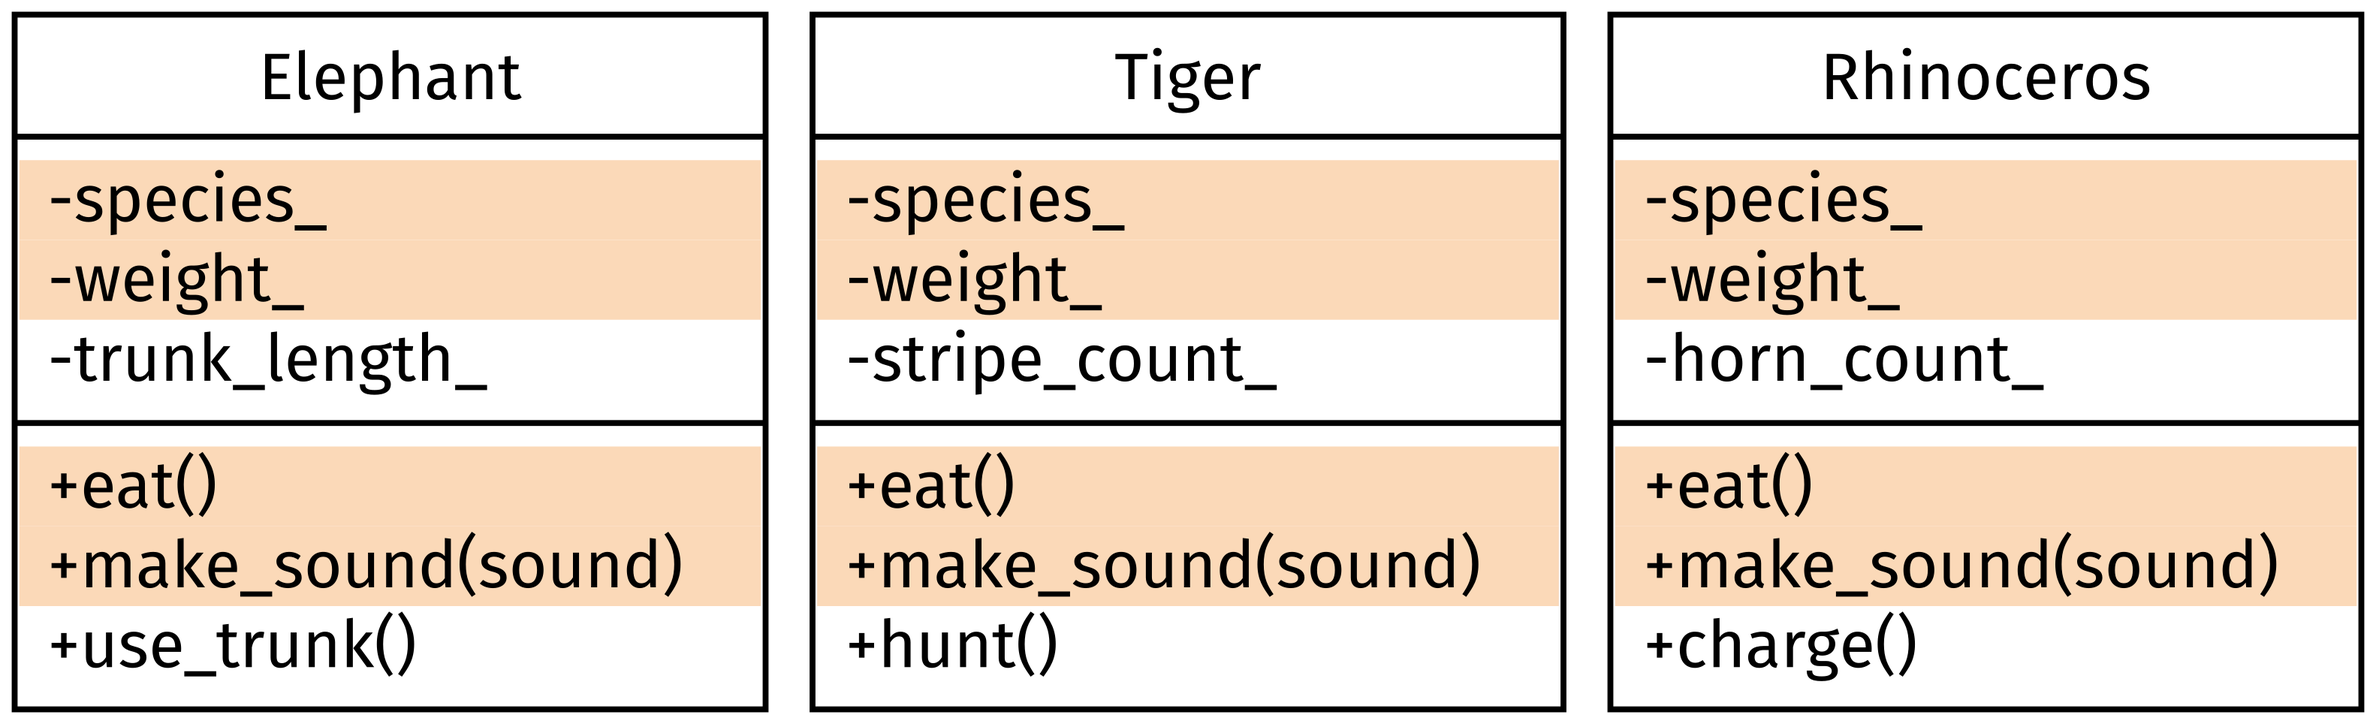
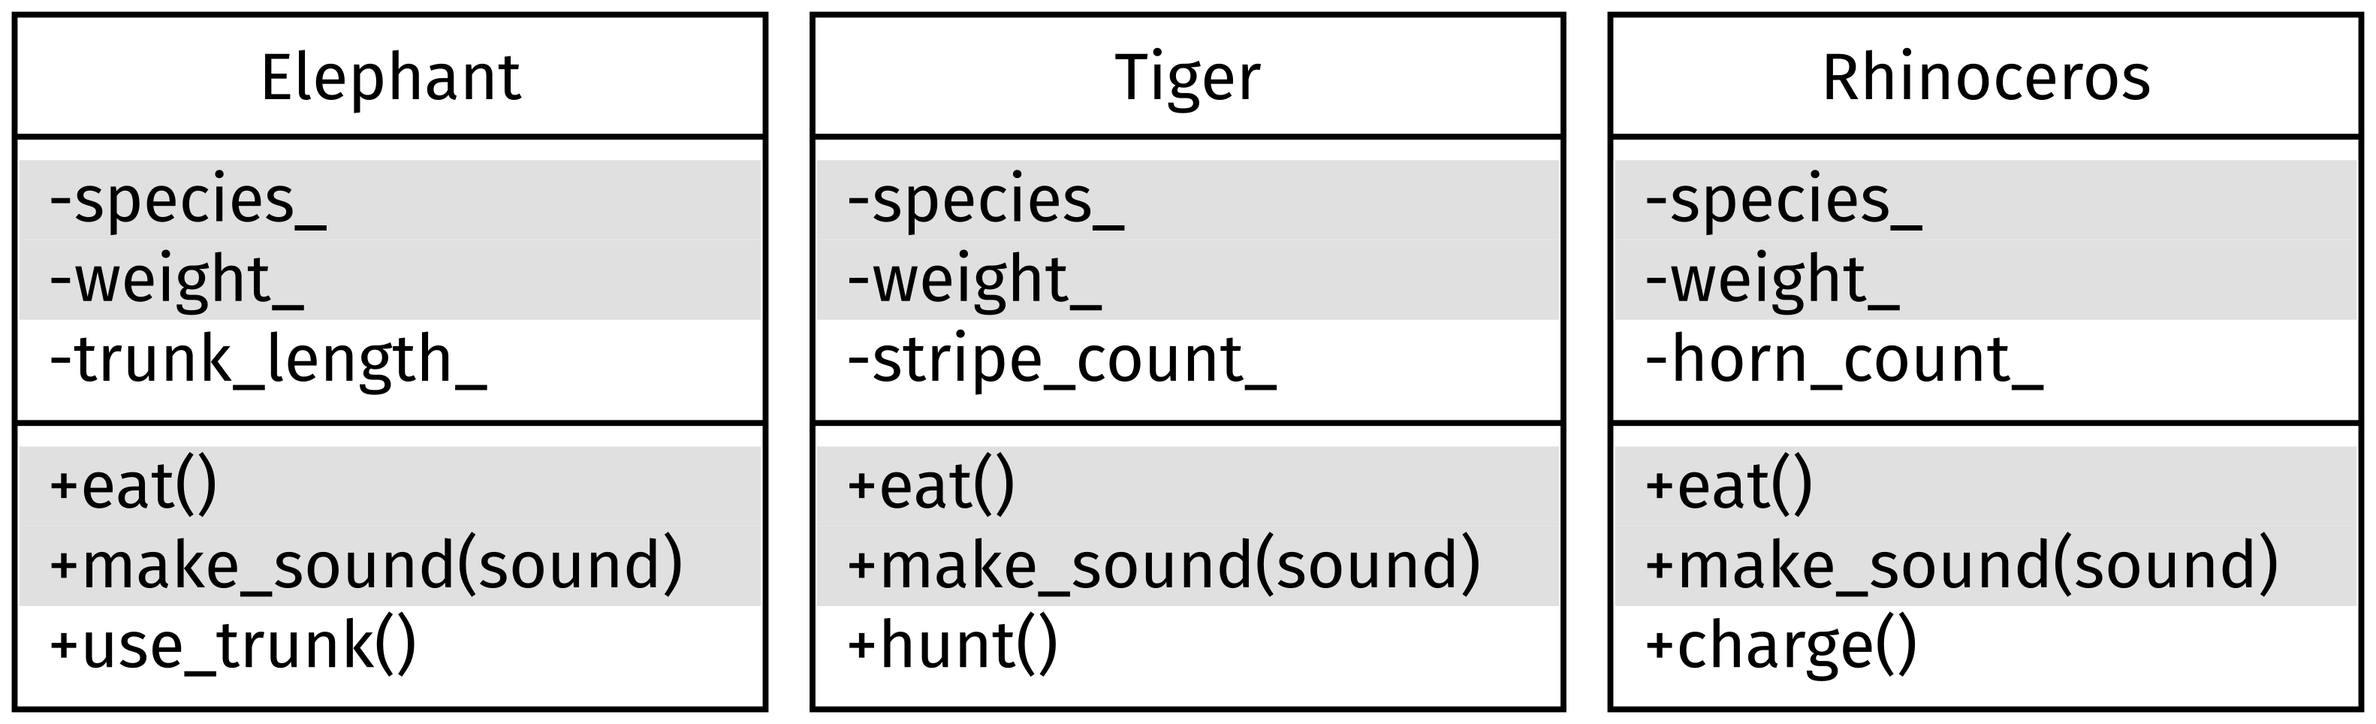
L9: Live Coding Steps 4 to 6 in class, static and dynamic type, appendix numbers
Steps 4, 5 and 6 are done in class; after Step 6 students zip the live
folder and upload live.zip. Static type and dynamic type are two
definitions, in the compile-time and runtime parts. A RoboTaxi in Memory
says why the private base members are still in the object.

The week9_appendix commands follow the new appendix numbers; on the
requirements page they are set by title, since four were already wrong.
Figures: gray repeated members in generalization_before, inheritance_only
in one row.

diff --git a/docs/source/lectures/lecture9/l9_lecture.rst b/docs/source/lectures/lecture9/l9_lecture.rst
@@ -19,10 +19,10 @@ The `Further Reading`_ part, at the end of this page, is the appendix of the sli
 Upload Your Live Coding
 ^^^^^^^^^^^^^^^^^^^^^^^
 
-Steps 1 to 3 are given in ``project/week9/live``: we review them together. You write **Step 4** on your own, in 10 minutes. Steps 5 and 6 are homework, not collected. In class, I walk around and help, but I do not show the answers: the recording would give them away. Get your workspace ready before class: follow :doc:`Setup Before Class </lectures/lecture8/l8_setup>` and run the script with the week number, ``bash ~/Downloads/enpm702_setup.sh 9``.
+Steps 1 to 3 are given in ``project/week9/live``: we review them together. You write **Steps 4, 5 and 6** in class, on your own: 10 minutes for Step 4, 5 minutes each for Steps 5 and 6. In class, I walk around and help, but I do not show the answers: the recording would give them away. Get your workspace ready before class: follow :doc:`Setup Before Class </lectures/lecture8/l8_setup>` and run the script with the week number, ``bash ~/Downloads/enpm702_setup.sh 9``.
 
-- **Before the end of class**, upload every file of ``live/include`` and ``live/src`` to the L9 Live Coding assignment on Canvas.
-- It counts as the **L9 exercise** (exercises are 5% of the grade, 2.5 points each), as complete or incomplete. Complete means the code builds and you wrote Step 4. I do not grade it for correctness.
+- **Before the end of class**, after Step 6, zip the ``live`` folder: in ``project/week9``, run ``zip -r live.zip live`` (if ``zip`` is missing: ``sudo apt install zip``). Upload ``live.zip`` to the L9 Live Coding assignment on Canvas.
+- It counts as the **L9 exercise** (exercises are 5% of the grade, 2.5 points each), as complete or incomplete. Complete means the code builds and you wrote Steps 4, 5 and 6. I do not grade it for correctness.
 - **No AI**: write the code yourself, with neither a chatbot nor the AI in VS Code (GitHub Copilot included), in class or after. Code written with AI gets **0**.
 - **Watching the recording?** Upload before the next lecture, on **Nov 10**. The same rules apply.
 - The finished code is posted after Nov 10, the deadline for those who watch the recording.
@@ -1046,13 +1046,13 @@ Generalization: Three Classes Repeat Members
 **Generalization**: starting from classes you already have, and moving what they share up into a new base class: bottom-up.
 
 .. figure:: /_static/images/l9/generalization_before.png
-   :alt: Three class boxes side by side, with no line between them: Elephant, Tiger and Rhinoceros. Each lists minus species_, minus weight_ and one member of its own (minus trunk_length_, minus stripe_count_, minus horn_count_), then plus eat(), plus make_sound(sound) and one method of its own (plus use_trunk(), plus hunt(), plus charge()). In each box, the four members the three share are shaded orange.
+   :alt: Three class boxes side by side, with no line between them: Elephant, Tiger and Rhinoceros. Each lists minus species_, minus weight_ and one member of its own (minus trunk_length_, minus stripe_count_, minus horn_count_), then plus eat(), plus make_sound(sound) and one method of its own (plus use_trunk(), plus hunt(), plus charge()). In each box, the four members the three share are shaded light gray.
    :align: center
    :width: 90%
 
    Three classes that each write the same members.
 
-- Orange: the members ``Elephant``, ``Tiger`` and ``Rhinoceros`` each wrote, the same in all three.
+- Gray: the members ``Elephant``, ``Tiger`` and ``Rhinoceros`` each wrote, the same in all three.
 
 Generalization: The Shared Members Move Up
 """"""""""""""""""""""""""""""""""""""""""
@@ -1161,9 +1161,9 @@ RoboTaxi and Taxi Are Vehicles
 ----
 
 .. image:: /_static/images/l9/model_l9_inheritance_only.png
-   :alt: A UML class diagram with only three boxes, Vehicle on the left, RoboTaxi and Taxi on the right, all light orange with dark orange lines, each with a circled C, for a class. RoboTaxi and Taxi each join Vehicle by an orange line with a hollow triangle at Vehicle.
+   :alt: A UML class diagram with only three boxes in one row, RoboTaxi on the left, Vehicle in the middle and Taxi on the right, all light orange with dark orange lines, each with a circled C, for a class. RoboTaxi and Taxi each join Vehicle by an orange line with a hollow triangle at Vehicle.
    :align: center
-   :width: 40%
+   :width: 70%
 
 The answer on the path, and the requirement behind it:
 
@@ -1204,7 +1204,7 @@ A RoboTaxi in Memory
 
 - A derived object contains every data member of its base class: ``car_a`` holds the six of ``Vehicle``, then the two that ``RoboTaxi`` adds.
 - Sizes, measured with g++ 13.3: the ``Vehicle`` part is 88 bytes, ``operating_zone_`` (a ``std::string``) 32 and ``automation_level_`` (an ``AutomationLevel``, an ``int`` underneath) 4. Then 4 bytes of padding make the size a multiple of 8: 88 + 32 + 4 + 4 = 128.
-- Whether ``RoboTaxi``'s methods can use a member by name depends on its access specifier in ``Vehicle``. ``-`` marks ``private``, as in the class diagram: the member is there, but reachable only through ``Vehicle``'s ``public`` or ``protected`` methods (`private Stays private`_).
+- Whether ``RoboTaxi``'s methods can use a member by name depends on its access specifier in ``Vehicle``. ``-`` marks ``private``, as in the class diagram: the member is there, but ``RoboTaxi``'s methods cannot name it. It is still needed: ``Vehicle``'s methods, such as ``set_speed``, use it for each ``RoboTaxi``, and ``RoboTaxi``'s methods reach it through ``Vehicle``'s ``public`` or ``protected`` methods (`private Stays private`_).
 - ``next_id_`` is ``static``: one counter for the class, in no object.
 - This code prints each member through ``Vehicle``'s ``public`` methods, then the two sizes: ``88 128``.
 
@@ -1760,7 +1760,7 @@ The Challenge: A Base Reference
    Vehicle: drives 500 m
    Vehicle: drives 500 m
 
-The **static type** of an expression is the type written in the code: ``vehicle`` is a ``const Vehicle&``. The **dynamic type** is the class of the object it refers to while the program runs: ``RoboTaxi``, then ``Taxi``.
+The **static type** of an expression is the type written in the code: ``vehicle`` is a ``const Vehicle&``.
 
 - The compiler sees only the static type, so it calls ``Vehicle::drive`` for both. Each object's own ``drive`` is lost.
 
@@ -1792,6 +1792,8 @@ See `One Overload per Class`_ and `Scalability and Redundancy`_ under Further Re
 
 Runtime Polymorphism
 ^^^^^^^^^^^^^^^^^^^^
+
+The **dynamic type** of an expression is the class of the object it refers to while the program runs. In ``start_shift`` (`The Challenge: A Base Reference`_), ``vehicle`` has static type ``const Vehicle&``, and dynamic type ``RoboTaxi``, then ``Taxi``.
 
 **Runtime polymorphism**: the method a call runs is picked while the program runs, from the class of the object. A call through a base reference or pointer then runs the derived class's own method. Also called **dynamic polymorphism** (Stroustrup, *C++ Glossary*); picking the method at run time is **dynamic binding** (*C++ FAQ: Inheritance, virtual functions*).
 
@@ -1909,8 +1911,6 @@ Live Coding: Step 4
 
 **10 minutes, in class, on your own.** The instructions are on the slides: make ``drive`` ``virtual``, so one loop drives a ``RoboTaxi`` and a ``Taxi``, each with its own ``drive``, and give ``Vehicle`` a ``virtual`` destructor. Why a ``virtual`` destructor: :doc:`virtual Methods in Depth <l9_virtual>`.
 
-Step 4 is the last step of the exercise: upload your Live Coding files on Canvas (`Upload Your Live Coding`_).
-
 See `auto or a Base Pointer`_ under Further Reading.
 
 Abstraction
@@ -1958,7 +1958,7 @@ An Abstract Class in the Class Diagram
 Live Coding: Step 5
 """""""""""""""""""
 
-**Homework, not collected.** The instructions are on the slides.
+**5 minutes, in class, on your own.** The instructions are on the slides.
 
 See `Step 5: No Vehicle Objects`_ and `Step 5: RoboTaxi and Taxi`_ under Further Reading.
 
@@ -2125,7 +2125,7 @@ See `Discussion: A Keyword for Each Method`_ under Further Reading.
 Live Coding: Step 6
 ^^^^^^^^^^^^^^^^^^^
 
-**Homework, not collected.** The instructions are on the slides.
+**5 minutes, in class, on your own.** The instructions are on the slides. Then zip the ``live`` folder and upload ``live.zip`` on Canvas (`Upload Your Live Coding`_).
 
 See `Step 6: A final Class`_ under Further Reading.
 
@@ -2434,7 +2434,7 @@ protected and private Inheritance, the Code
 - With ``private``, ``NightShuttle`` cannot call ``check()``, and outside code cannot see the base.
 - With ``protected`` instead, ``start_late()`` compiles and prints ``go``; outside code still cannot see the base (g++ 13.3: ``'PreTripCheck' is an inaccessible base of 'NightShuttle'``).
 - The destructor of ``PreTripCheck`` is ``protected`` and non-virtual, one of the two choices of `Core Guidelines C.35 <https://isocpp.github.io/CppCoreGuidelines/CppCoreGuidelines#rc-dtor-virtual>`__. Outside code cannot delete a ``Shuttle`` through a ``PreTripCheck*``.
-- Run: ``702run week9_appendix xi`` (after Nov 10).
+- Run: ``702run week9_appendix xii`` (after Nov 10).
 
 Back to `When protected and private Inheritance Make Sense`_.
 
@@ -2504,7 +2504,7 @@ Two Pointers, Two Static Types
 
 - A ``std::unique_ptr<Vehicle>`` can own any kind of vehicle, one after the other. A ``std::unique_ptr<RoboTaxi>`` owns robotaxis only.
 - The compiler checks every name against the static type. With the design's ``RoboTaxi``, ``robotaxi->get_operating_zone()`` compiles and ``vehicle->get_operating_zone()`` does not.
-- Run: ``702run week9_appendix xiv``.
+- Run: ``702run week9_appendix xv``.
 
 Back to `Live Coding: Step 4`_.
 
@@ -2528,7 +2528,7 @@ From auto into a Vector of Vehicles
 
 - A ``std::unique_ptr<RoboTaxi>`` that is moved converts to a ``std::unique_ptr<Vehicle>``: ``push_back``, ``emplace_back`` and the parameter of ``hand_over`` all accept it.
 - Each ``std::unique_ptr`` is the only owner of its vehicle. ``Fleet`` shares its vehicles, so it holds ``std::shared_ptr<Vehicle>`` instead.
-- Run: ``702run week9_appendix xv``.
+- Run: ``702run week9_appendix xvi``.
 
 Back to `Live Coding: Step 4`_.
 
@@ -2658,7 +2658,7 @@ Each Route Has Its Own Positions
 
 - Positions in m, chosen for this example: from the pickup (0, 0) to Maya's stop (300, 400) is 500 m, the long side of a 300, 400, 500 right triangle. Ana's stop is 400 m straight down, at (300, 0): 500 + 400 = 900.
 - The copy has its own ``Position`` values: adding Ana's stop to ``shared_ride`` leaves ``maya_ride`` at 500 m. A part belongs to one whole.
-- Run: ``702run week9_appendix xxi``.
+- Run: ``702run week9_appendix xxiii``.
 
 Back to `Exclusive Ownership Needs std::unique_ptr`_.
 
@@ -2743,7 +2743,7 @@ Here ``Vehicle`` is the concrete class you already have; the Abstraction section
 - This ``drive`` prints the length and the time, length / speed: 500 / 10 = 50 s, 200 / 10 = 20 s. The speed, 10 m/s, is chosen for this example.
 - ``maya_ride`` is destroyed; the ``Vehicle`` kept nothing of it.
 - A dependency needs no smart pointer: a reference parameter. Core Guidelines `F.7 <https://isocpp.github.io/CppCoreGuidelines/CppCoreGuidelines#rf-smart>`__: "For general use, take ``T*`` or ``T&`` arguments rather than smart pointers".
-- Run: ``702run week9_appendix xxiv``.
+- Run: ``702run week9_appendix xxvi``.
 
 Back to `A Vehicle Uses a Route`_.
 
@@ -2768,7 +2768,7 @@ The **base subobject**: the whole ``Vehicle`` at the start of every ``Taxi`` obj
 
 - A ``Taxi`` object starts with its base subobject: 88 bytes with g++. Then its own member, a ``std::string``, 32 bytes on the second line: 88 + 32 = 120.
 - ``RoboTaxi`` adds a ``std::string`` (32 bytes) and an ``int`` (4 bytes), then 4 bytes of padding: 88 + 32 + 4 + 4 = 128.
-- Run: ``702run week9_appendix xxv``.
+- Run: ``702run week9_appendix xxvii``.
 
 Back to `A Base Class Reference to a Derived Object`_.
 
@@ -2808,7 +2808,7 @@ One Overload per Class
    Taxi: Ana drives 500 m
 
 - ``start_shift(robotaxi, maya_ride)`` and ``start_shift(taxi, maya_ride)`` each pick their overload, and each vehicle drives its own way.
-- Run: ``702run week9_appendix xxvii``.
+- Run: ``702run week9_appendix xxx``.
 
 Back to `Overloads Cannot Meet the Challenge`_.
 
@@ -2895,7 +2895,7 @@ Discussion: What Prints First?
    - The base first, then the members in the order they are declared, then the body. Destruction is the reverse.
    - ``meter_`` has no initializer in the list, and it is still built before the body: every member is built before the body runs, whether the list names it or not.
    - Swapping the two initializers changes nothing in the output. g++ warns ``'Taxi::driver_name_' will be initialized after [-Wreorder]``, then ``base 'Vehicle'``. The order comes from the class, not from the list, as for members.
-   - Run: ``702run week9_appendix xxx``.
+   - Run: ``702run week9_appendix xxxiii``.
 
 Back to `Construction and Destruction Order`_.
 
@@ -2941,7 +2941,7 @@ The company adds a robot bus with 30 seats and a maximum speed of 11.2 m/s, abou
    :class-container: sd-border-success
 
    1. ``class RoboBus : public Vehicle``, with a constructor that passes the maximum speed to ``Vehicle`` and sets ``seats_``, and ``drive(const Route&) const override``. The seats need a rule, more than 0, so the constructor checks it.
-   2. None. NFR-1: adding a vehicle kind changes no line of ``Fleet`` or ``Passenger``. ``Fleet`` stores ``std::shared_ptr<Vehicle>``. ``702run week9_appendix xxxii`` adds a ``RoboBus`` to a ``Fleet`` and prints ``RoboBus: 30 seats, drives 500 m``.
+   2. None. NFR-1: adding a vehicle kind changes no line of ``Fleet`` or ``Passenger``. ``Fleet`` stores ``std::shared_ptr<Vehicle>``. ``702run week9_appendix xxxv`` adds a ``RoboBus`` to a ``Fleet`` and prints ``RoboBus: 30 seats, drives 500 m``.
    3. ``RoboBus`` is abstract, and creating one stops the build, as in `Forgetting One Override`_.
    4. Only if a robot bus is a robotaxi. It is a bus, so it derives from ``Vehicle``. Rule: `Core Guidelines C.120 <https://isocpp.github.io/CppCoreGuidelines/CppCoreGuidelines#rh-domain>`__, "Use class hierarchies to represent concepts with inherent hierarchical structure (only)". The design marks ``RoboTaxi`` ``final``, as `The final Keyword`_ shows.
 
@@ -2997,7 +2997,7 @@ std::find on a Vector
 
 - ``std::find`` is in ``<algorithm>``. It returns an iterator to the first element equal to the value, or ``end()`` when there is none.
 - In ``Fleet``, the elements are ``std::shared_ptr<Vehicle>``, so ``std::find`` compares the pointers.
-- Run: ``702run week9_appendix xxxiv``.
+- Run: ``702run week9_appendix xxxvii``.
 
 std::erase_if on a Vector
 ^^^^^^^^^^^^^^^^^^^^^^^^^
@@ -3021,7 +3021,7 @@ std::erase_if on a Vector
 
 - The ``std::erase_if`` for a vector is in ``<vector>`` (C++20). The lambda gets each element and returns ``true`` for the ones to erase.
 - In ``Fleet``, the lambda takes ``const std::shared_ptr<Vehicle>& vehicle`` and returns ``vehicle->get_id() == id``.
-- Run: ``702run week9_appendix xxxv``.
+- Run: ``702run week9_appendix xxxviii``.
 
 Owners Keep Objects Alive
 ^^^^^^^^^^^^^^^^^^^^^^^^^

diff --git a/docs/source/lectures/lecture9/l9_index.rst b/docs/source/lectures/lecture9/l9_index.rst
@@ -7,7 +7,7 @@ L9: OOP Advanced
 Overview
 --------
 
-This lecture covers advanced object-oriented programming in C++, on the ride service program. A warm-up asks you to improve a ``Vehicle`` class with what you already know. The lecture then opens with the UML class diagram of the whole program and comes back to it, with the part being built in orange, before each new piece. A **design** comes first: requirements say what the program must do, their nouns and verbs give the classes and methods, and a **UML class diagram** draws them. Every class of the program is in the namespace ``fleet``. The lecture then names each line of the diagram: a ``Passenger`` rides a ``Vehicle`` (association, ``std::weak_ptr``), a ``Fleet`` holds vehicles it shares (aggregation, ``std::shared_ptr``), a ``Vehicle`` owns its ``Sensor``\ s and a ``Route`` its ``Position``\ s (composition), a ``Vehicle`` uses a ``Route`` for one call (dependency), and a ``RoboTaxi`` and a ``Taxi`` are vehicles (inheritance, with slicing, ``protected``, base class initializers and construction order). **Polymorphism** follows: compile-time (redefinition, static types, and why overloads cannot meet the challenge) and runtime in three steps (``public`` inheritance, ``virtual`` and ``override``, a base reference or pointer). The vtable and ``virtual`` destructors are on the reading page :doc:`virtual Methods in Depth <l9_virtual>`. The lecture ends with **abstraction**, an abstract ``Vehicle`` with a pure ``virtual`` ``drive``, concrete classes that override it, and ``final``. In six Live Coding steps, ``Passenger``, ``Fleet``, ``RoboTaxi`` and ``Taxi`` join the ``Vehicle`` you already wrote: Steps 1 to 3 are given and reviewed in class, you write Step 4 on your own, and Steps 5 and 6 are homework, not collected. The other discussions, with their answers, are in the Further Reading part of the lecture page.
+This lecture covers advanced object-oriented programming in C++, on the ride service program. A warm-up asks you to improve a ``Vehicle`` class with what you already know. The lecture then opens with the UML class diagram of the whole program and comes back to it, with the part being built in orange, before each new piece. A **design** comes first: requirements say what the program must do, their nouns and verbs give the classes and methods, and a **UML class diagram** draws them. Every class of the program is in the namespace ``fleet``. The lecture then names each line of the diagram: a ``Passenger`` rides a ``Vehicle`` (association, ``std::weak_ptr``), a ``Fleet`` holds vehicles it shares (aggregation, ``std::shared_ptr``), a ``Vehicle`` owns its ``Sensor``\ s and a ``Route`` its ``Position``\ s (composition), a ``Vehicle`` uses a ``Route`` for one call (dependency), and a ``RoboTaxi`` and a ``Taxi`` are vehicles (inheritance, with slicing, ``protected``, base class initializers and construction order). **Polymorphism** follows: compile-time (redefinition, static types, and why overloads cannot meet the challenge) and runtime in three steps (``public`` inheritance, ``virtual`` and ``override``, a base reference or pointer). The vtable and ``virtual`` destructors are on the reading page :doc:`virtual Methods in Depth <l9_virtual>`. The lecture ends with **abstraction**, an abstract ``Vehicle`` with a pure ``virtual`` ``drive``, concrete classes that override it, and ``final``. In six Live Coding steps, ``Passenger``, ``Fleet``, ``RoboTaxi`` and ``Taxi`` join the ``Vehicle`` you already wrote: Steps 1 to 3 are given and reviewed in class, you write Steps 4, 5 and 6 in class, on your own. The other discussions, with their answers, are in the Further Reading part of the lecture page.
 
 .. admonition:: Learning Objectives
    :class: learning-objectives
@@ -38,7 +38,7 @@ This lecture covers advanced object-oriented programming in C++, on the ride ser
 Before Class
 ------------
 
-Follow :doc:`Setup Before Class </lectures/lecture8/l8_setup>`, and run the script with the week number: ``bash ~/Downloads/enpm702_setup.sh 9``. In class we review Steps 1 to 3, given in ``project/week9/live``, and you write Step 4 on your own; Steps 5 and 6 are homework, not collected. You upload every file of ``live/include`` and ``live/src`` to the L9 Live Coding assignment on Canvas before the end of class. The upload counts as the L9 exercise (exercises are 5% of the grade), as complete or incomplete, and no AI is allowed. The rules are in :ref:`Upload Your Live Coding <l9-upload-live-coding>`.
+Follow :doc:`Setup Before Class </lectures/lecture8/l8_setup>`, and run the script with the week number: ``bash ~/Downloads/enpm702_setup.sh 9``. In class we review Steps 1 to 3, given in ``project/week9/live``, and you write Steps 4, 5 and 6 in class, on your own. After Step 6, you zip the ``live`` folder and upload ``live.zip`` to the L9 Live Coding assignment on Canvas before the end of class. The upload counts as the L9 exercise (exercises are 5% of the grade), as complete or incomplete, and no AI is allowed. The rules are in :ref:`Upload Your Live Coding <l9-upload-live-coding>`.
 
 Class starts with **Quiz 4**, which includes questions on the reading :doc:`Rule of Five and Rule of Zero </lectures/lecture8/l8_rule_of_five>`. Read it before you come.
 
@@ -47,7 +47,7 @@ Before the Next Lecture
 
 **RWA3** is posted today and is due on **Nov 17**.
 
-- **Before the end of class**: upload every file of ``live/include`` and ``live/src`` on Canvas. If you watch the recording, upload them before Nov 10. The Live Coding is this week's exercise: L9 has no C++ exercise on this site. Steps 5 and 6 are homework, not collected.
+- **Before the end of class**: after Live Coding Step 6, zip the ``live`` folder and upload ``live.zip`` on Canvas. If you watch the recording, upload it before Nov 10. The Live Coding is this week's exercise: L9 has no C++ exercise on this site.
 - The :doc:`shell exercises <l9_shell>` and the :doc:`quiz <l9_quiz>` are for your own practice. They are **not** collected.
 
 **Required reading, after class:**

diff --git a/docs/source/lectures/lecture9/l9_requirements.rst b/docs/source/lectures/lecture9/l9_requirements.rst
@@ -727,7 +727,7 @@ the one on that slide or frame.
    * - FR-4.1, FR-4.2
      - Yes: ``Vehicle::add_sensor``; ``RoboTaxi::drive`` checks
        ``sensor_count()`` first.
-     - ``702run week9_appendix vii`` (RoboTaxi and Taxi) prints
+     - ``702run week9_appendix v`` (RoboTaxi and Taxi) prints
        ``RoboTaxi: no sensor, stays parked``, then ``RoboTaxi: 1 sensor
        checked, drives 500 m``.
    * - FR-4.3
@@ -753,7 +753,7 @@ the one on that slide or frame.
        ``change_zone("Silver Spring")``.
    * - FR-5
      - Yes: ``Vehicle::drive(const Route&)``.
-     - ``702run week9_appendix xxvii`` (A Route for One Call) prints
+     - ``702run week9_appendix xxvi`` (A Route for One Call) prints
        ``500 m at 10 m/s: 50 s``.
    * - FR-5.1
      - Yes: ``Taxi::drive`` checks for an empty driver name.
@@ -765,7 +765,7 @@ the one on that slide or frame.
      -
    * - FR-9.1, FR-9.2
      - Yes: ``Route::add``, ``Route::length``.
-     - ``702run week9_appendix xxiv`` (Each Route Has Its Own Positions)
+     - ``702run week9_appendix xxiii`` (Each Route Has Its Own Positions)
        prints ``500 900``: a route of 500 m and a longer one of 900 m.
    * - FR-9.3
      - No.
@@ -791,7 +791,7 @@ the one on that slide or frame.
        Lifetimes prints ``1``, ``1`` and ``true``.
    * - NFR-1
      - Yes, for ``Fleet``: a new kind joins it unchanged.
-     - ``702run week9_appendix xxxix`` (Discussion: Add a RoboBus) prints
+     - ``702run week9_appendix xxxv`` (Discussion: Add a RoboBus) prints
        ``RoboBus: 30 seats, drives 500 m``.
    * - NFR-2
      - Yes: every rule throws ``std::invalid_argument``.
